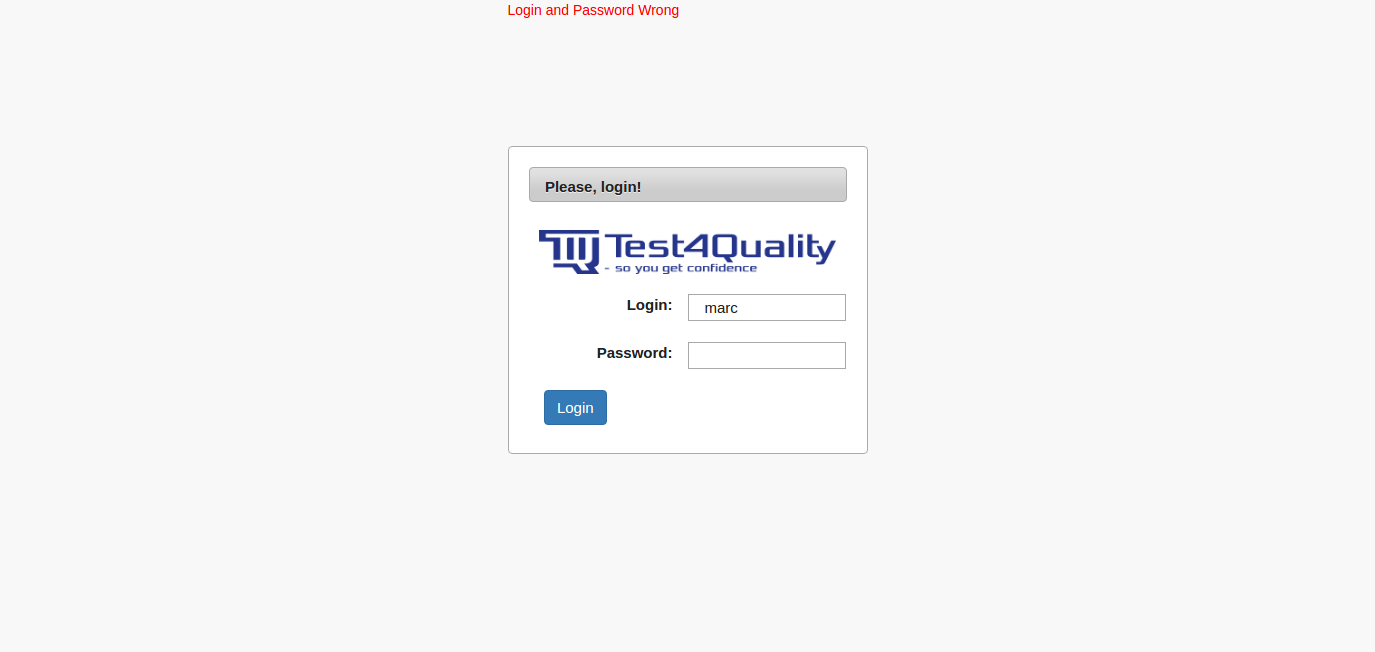
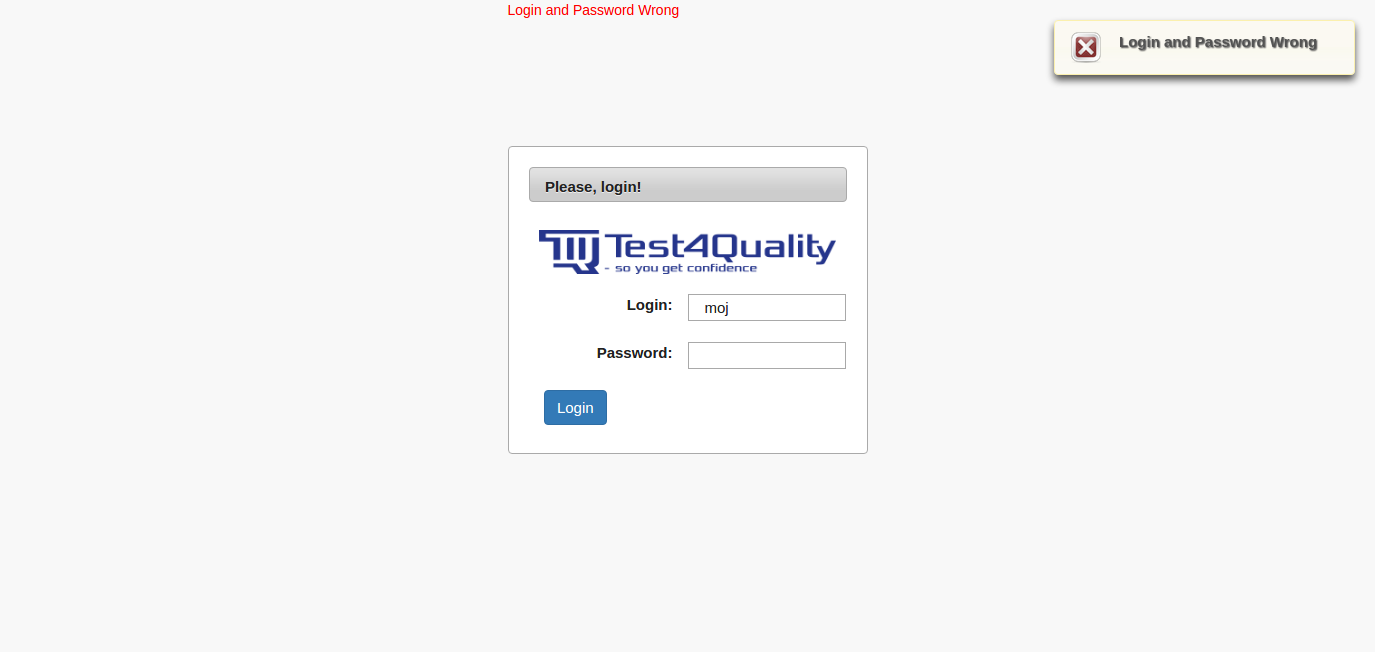
my final changes

Changed region(s): [[0.7636, 0.0307, 1.0, 0.1534], [0.5193, 0.4601, 0.5498, 0.4908]]

diff --git a/log.html b/log.html
@@ -1727,25 +1727,25 @@ function stopPropagation(event) {
 window.output = {};
 </script>
 <script type="text/javascript">
-window.output["suite"] = [1,2,3,0,[],[0,0,71514],[[4,5,6,0,[],[0,81,71420],[],[[7,0,1,0,[],[0,943,70540,8],[[1,9,10,0,0,0,0,0,[1,945,6278],[[0,11,12,0,13,14,0,0,[1,945,13],[],[[952,2,15]]],[0,16,17,0,18,19,0,0,[1,961,4787],[],[[963,2,20]]],[0,21,17,0,22,0,0,0,[1,5752,327],[],[]],[0,23,17,0,24,25,0,0,[1,6080,6],[],[]],[0,26,17,0,27,28,0,0,[1,6090,215],[],[]],[0,29,17,0,30,0,0,0,[1,6307,215],[],[]],[0,31,17,0,32,33,0,0,[1,6522,245],[],[]],[0,34,17,0,35,36,0,0,[1,6768,211],[],[[6979,2,37]]],[0,38,17,0,39,40,0,0,[1,6980,243],[],[[7222,2,41]]]],[]],[0,42,43,0,0,0,0,0,[0,7223,63918],[[0,44,17,0,45,46,0,0,[1,7228,874],[],[[7230,2,47]]],[0,44,17,0,45,48,0,0,[1,8103,809],[],[[8104,2,49]]],[0,50,17,0,51,52,0,0,[1,8913,1591],[],[[8913,2,53]]],[0,54,17,0,55,56,0,0,[0,10505,60635],[[0,57,17,0,58,0,0,0,[1,70642,483],[],[[71125,2,59]]]],[[71140,5,8]]]],[]],[2,60,10,0,0,0,0,0,[1,71141,342],[[0,61,17,0,62,0,0,0,[1,71142,340],[],[]]],[]]]]],[],[1,0,1,0]]],[],[],[1,0,1,0]];
+window.output["suite"] = [1,2,3,0,[],[1,0,32341],[[4,5,6,0,[],[1,103,32221],[],[[7,0,1,0,[],[1,745,31571],[[1,8,9,0,0,0,0,0,[1,752,10945],[[0,10,11,0,12,13,0,0,[1,753,1],[],[[754,2,14]]],[0,15,16,0,17,18,0,0,[1,754,7905],[],[[755,2,19]]],[0,20,16,0,21,0,0,0,[1,8719,1018],[],[]],[0,22,16,0,23,24,0,0,[1,9750,13],[],[]],[0,25,16,0,26,27,0,0,[1,9773,272],[],[]],[0,28,16,0,29,0,0,0,[1,10046,755],[],[]],[0,30,16,0,31,32,0,0,[1,10806,381],[],[]],[0,33,16,0,34,35,0,0,[1,11194,263],[],[[11456,2,36]]],[0,37,16,0,38,39,0,0,[1,11457,236],[],[[11693,2,40]]]],[]],[0,41,42,0,0,0,0,0,[1,11703,20220],[[0,43,16,0,44,45,0,0,[1,11704,1893],[],[[11707,2,46]]],[0,43,16,0,44,47,0,0,[1,13605,1785],[],[[13607,2,48]]],[0,49,16,0,50,51,0,0,[1,15410,13815],[],[[15416,2,52]]],[0,53,16,0,54,55,0,0,[1,29252,2642],[],[[29264,2,56]]]],[]],[2,57,9,0,0,0,0,0,[1,31927,388],[[0,58,16,0,59,0,0,0,[1,31941,373],[],[]]],[]]]]],[],[1,1,1,1]]],[],[],[1,1,1,1]];
 </script>
 <script type="text/javascript">
 window.output["strings"] = [];
 </script>
 <script type="text/javascript">
[2 lines of base64/hex data omitted]
 </script>
 <script type="text/javascript">
-window.output["stats"] = [[{"elapsed":"00:01:11","fail":1,"label":"Critical Tests","pass":0},{"elapsed":"00:01:11","fail":1,"label":"All Tests","pass":0}],[],[{"elapsed":"00:01:12","fail":1,"id":"s1","label":"RobotProject","name":"RobotProject","pass":0},{"elapsed":"00:01:11","fail":1,"id":"s1-s1","label":"RobotProject.Regression test suite","name":"Regression test suite","pass":0}]];
+window.output["stats"] = [[{"elapsed":"00:00:32","fail":0,"label":"Critical Tests","pass":1},{"elapsed":"00:00:32","fail":0,"label":"All Tests","pass":1}],[],[{"elapsed":"00:00:32","fail":0,"id":"s1","label":"RobotProject","name":"RobotProject","pass":1},{"elapsed":"00:00:32","fail":0,"id":"s1-s1","label":"RobotProject.Regression test suite","name":"Regression test suite","pass":1}]];
 </script>
 <script type="text/javascript">
-window.output["errors"] = [[895,4,63],[897,4,64],[903,4,65],[903,4,66],[924,4,67],[924,4,68]];
+window.output["errors"] = [[734,4,60],[737,4,61],[737,4,62],[738,4,63]];
 </script>
 <script type="text/javascript">
-window.output["baseMillis"] = 1493844253025;
+window.output["baseMillis"] = 1493991756924;
 </script>
 <script type="text/javascript">
-window.output["generated"] = 71560;
+window.output["generated"] = 32391;
 </script>
 <script type="text/javascript">
 window.settings = {"defaultLevel":"INFO","minLevel":"INFO","reportURL":"report.html","splitLogBase":"log","title":""};

diff --git a/report.html b/report.html
@@ -1567,22 +1567,22 @@ storage = function () {
 window.output = {};
 </script>
 <script type="text/javascript">
-window.output["suite"] = [1,2,3,0,[],[0,0,71514],[[4,5,6,0,[],[0,81,71420],[],[[7,0,1,0,[],[0,943,70540,8],[]]],[],[1,0,1,0]]],[],[],[1,0,1,0]];
+window.output["suite"] = [1,2,3,0,[],[1,0,32341],[[4,5,6,0,[],[1,103,32221],[],[[7,0,1,0,[],[1,745,31571],[]]],[],[1,1,1,1]]],[],[],[1,1,1,1]];
 </script>
 <script type="text/javascript">
 window.output["strings"] = [];
 </script>
 <script type="text/javascript">
-window.output["strings"] = window.output["strings"].concat(["*","*RobotProject","*/home/robot/workspace/RobotProject","*.","*Regression test suite","*/home/robot/workspace/RobotProject/Regression_test_suite.robot","*Regression_test_suite.robot","*Test_delete_an_user","*Element 'xpath=//a[@class='dropdown-toggle']' did not appear in 1 minute"]);
+window.output["strings"] = window.output["strings"].concat(["*","*RobotProject","*/home/robot/workspace/RobotProject","*.","*Regression test suite","*/home/robot/workspace/RobotProject/Regression_test_suite.robot","*Regression_test_suite.robot","*Test_login_as_invalid_user"]);
 </script>
 <script type="text/javascript">
-window.output["stats"] = [[{"elapsed":"00:01:11","fail":1,"label":"Critical Tests","pass":0},{"elapsed":"00:01:11","fail":1,"label":"All Tests","pass":0}],[],[{"elapsed":"00:01:12","fail":1,"id":"s1","label":"RobotProject","name":"RobotProject","pass":0},{"elapsed":"00:01:11","fail":1,"id":"s1-s1","label":"RobotProject.Regression test suite","name":"Regression test suite","pass":0}]];
+window.output["stats"] = [[{"elapsed":"00:00:32","fail":0,"label":"Critical Tests","pass":1},{"elapsed":"00:00:32","fail":0,"label":"All Tests","pass":1}],[],[{"elapsed":"00:00:32","fail":0,"id":"s1","label":"RobotProject","name":"RobotProject","pass":1},{"elapsed":"00:00:32","fail":0,"id":"s1-s1","label":"RobotProject.Regression test suite","name":"Regression test suite","pass":1}]];
 </script>
 <script type="text/javascript">
-window.output["baseMillis"] = 1493844253025;
+window.output["baseMillis"] = 1493991756924;
 </script>
 <script type="text/javascript">
-window.output["generated"] = 71560;
+window.output["generated"] = 32391;
 </script>
 <script type="text/javascript">
 window.settings = {"background":{"fail":"#f66","nonCriticalFail":"#9e9","pass":"#9e9"},"logURL":"log.html","title":""};
